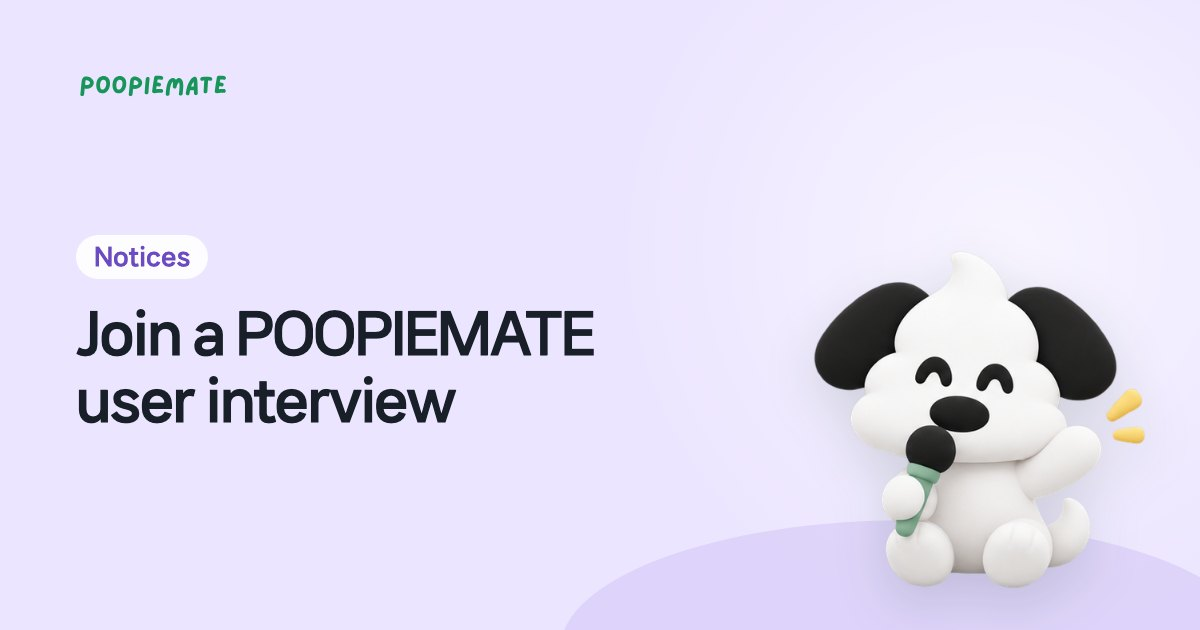
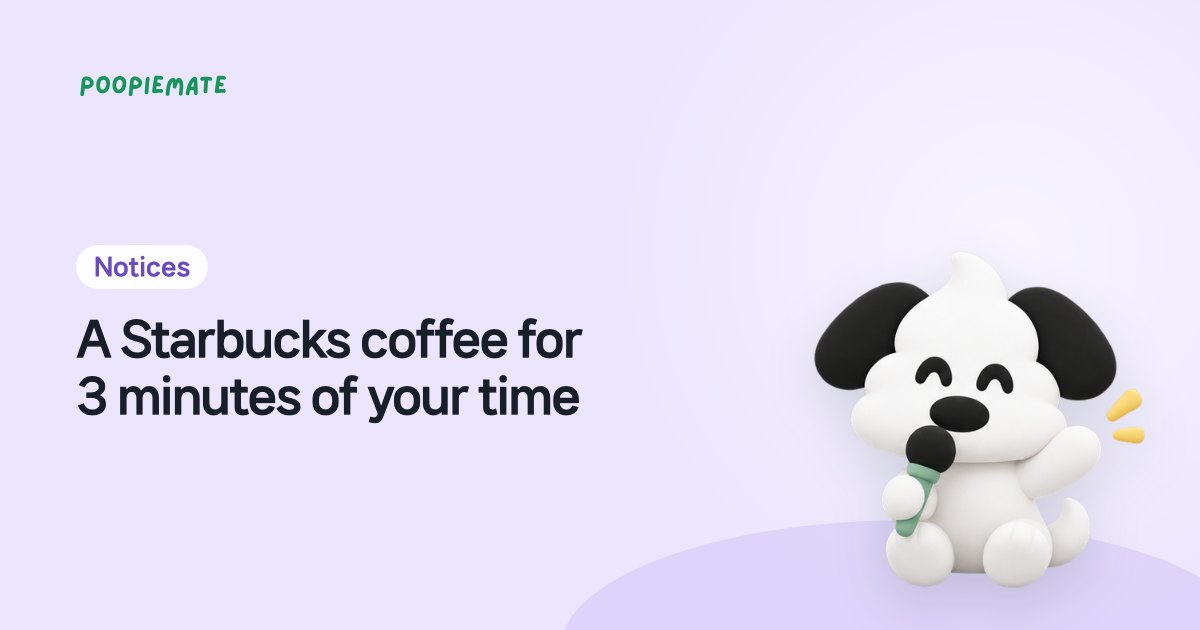
Survey gift: Starbucks e-gift card in English (Korean stays 투썸플레이스 아메리카노)

Changed region(s): [[0.0617, 0.4825, 0.4933, 0.6937], [0.0617, 0.3619, 0.1542, 0.4524]]

diff --git a/en/notice/interview/index.html b/en/notice/interview/index.html
@@ -4,8 +4,8 @@
 <meta charset="utf-8">
 <script>document.documentElement.classList.add('js')</script>
 <meta name="viewport" content="width=device-width, initial-scale=1, viewport-fit=cover">
-<title>A coffee for 3 minutes of your time | POOPIEMATE</title>
-<meta name="description" content="Tell us how you use POOPIEMATE in a 3-minute multiple-choice survey and the coffee is on us.">
+<title>A Starbucks coffee for 3 minutes of your time | POOPIEMATE</title>
+<meta name="description" content="Tell us how you use POOPIEMATE in a 3-minute multiple-choice survey and a Starbucks coffee is on us.">
 
 <meta name="robots" content="index, follow, max-image-preview:large">
 <link rel="canonical" href="https://poopiemate.com/en/notice/interview/">
@@ -16,16 +16,16 @@
 <meta name="theme-color" content="#18955A">
 <meta property="og:type" content="article">
 <meta property="og:site_name" content="POOPIEMATE">
-<meta property="og:title" content="A coffee for 3 minutes of your time | POOPIEMATE">
-<meta property="og:description" content="Tell us how you use POOPIEMATE in a 3-minute multiple-choice survey and the coffee is on us.">
+<meta property="og:title" content="A Starbucks coffee for 3 minutes of your time | POOPIEMATE">
+<meta property="og:description" content="Tell us how you use POOPIEMATE in a 3-minute multiple-choice survey and a Starbucks coffee is on us.">
 <meta property="og:url" content="https://poopiemate.com/en/notice/interview/">
 <meta property="og:image" content="https://poopiemate.com/assets/og/p/en-notice-interview.jpg">
 <meta property="og:image:width" content="1200">
 <meta property="og:image:height" content="630">
 <meta property="og:locale" content="en_US">
 <meta name="twitter:card" content="summary_large_image">
-<meta name="twitter:title" content="A coffee for 3 minutes of your time | POOPIEMATE">
-<meta name="twitter:description" content="Tell us how you use POOPIEMATE in a 3-minute multiple-choice survey and the coffee is on us.">
+<meta name="twitter:title" content="A Starbucks coffee for 3 minutes of your time | POOPIEMATE">
+<meta name="twitter:description" content="Tell us how you use POOPIEMATE in a 3-minute multiple-choice survey and a Starbucks coffee is on us.">
 <meta name="twitter:image" content="https://poopiemate.com/assets/og/p/en-notice-interview.jpg">
 <link rel="icon" href="/favicon.ico" sizes="48x48">
 <link rel="icon" type="image/png" sizes="32x32" href="/assets/icons/favicon-32.png">
@@ -47,8 +47,8 @@ posthog.init('phc_vCXzLCCFmhfLTks3Cn4ZNK99JiPnmcwByxnnhCApaVt7',{api_host:'https
 <main id="main">
 
 <article class="post"><div class="wrap-post">
-<p class="post-meta"><time datetime="2026-10-05">Oct 5, 2026</time> · POOPIEMATE team</p><h1 class="post-h1">A coffee for 3 minutes of your time</h1><img class="notice-hero" src="/assets/img/notice-hero.webp" alt="A coffee for 3 minutes of your time" width="1038" height="510">
-<div class="prose"><p>Hi from the POOPIEMATE team.<br>Thank you for logging your dog’s poops, pees and walks every day.</p><p>We want to make POOPIEMATE easier to use, so we’d love to know how you use it.</p><ul><li>Which features you use</li><li>Why you use it</li><li>What you’d like us to add</li></ul><p>It’s multiple choice and takes about 3 minutes.</p><p>Everyone who answers gets a coffee e-gift card within a day or two.</p></div>
+<p class="post-meta"><time datetime="2026-10-05">Oct 5, 2026</time> · POOPIEMATE team</p><h1 class="post-h1">A Starbucks coffee for 3 minutes of your time</h1><img class="notice-hero" src="/assets/img/notice-hero.webp" alt="A Starbucks coffee for 3 minutes of your time" width="1038" height="510">
+<div class="prose"><p>Hi from the POOPIEMATE team.<br>Thank you for logging your dog’s poops, pees and walks every day.</p><p>We want to make POOPIEMATE easier to use, so we’d love to know how you use it.</p><ul><li>Which features you use</li><li>Why you use it</li><li>What you’d like us to add</li></ul><p>It’s multiple choice and takes about 3 minutes.</p><p>Everyone who answers gets a Starbucks e-gift card within a day or two.</p></div>
 <div class="post-end two"><a class="btn-block btn-grey" href="/en/notice/">Back to list</a><a class="btn-block btn-dark" href="/en/interview/?src=notice">Take the 3-minute survey<svg viewBox="0 0 24 24" fill="none" stroke="currentColor" stroke-width="2.2" stroke-linecap="round" stroke-linejoin="round" aria-hidden="true"><path d="M15 3h6v6M10 14 21 3M18 13v6a2 2 0 0 1-2 2H5a2 2 0 0 1-2-2V8a2 2 0 0 1 2-2h6"/></svg></a></div>
 </div></article>
 

diff --git a/en/interview/index.html b/en/interview/index.html
@@ -278,7 +278,7 @@
 <meta property="og:type" content="website">
 <meta property="og:site_name" content="POOPIEMATE">
 <meta property="og:title" content="POOPIEMATE 3-minute survey">
-<meta property="og:description" content="Tell us how you use POOPIEMATE in a 3-minute multiple-choice survey and the coffee is on us.">
+<meta property="og:description" content="Tell us how you use POOPIEMATE in a 3-minute multiple-choice survey and a Starbucks coffee is on us.">
 <meta property="og:url" content="https://poopiemate.com/en/interview/">
 <meta property="og:image" content="https://poopiemate.com/assets/og/p/en-interview.jpg">
 <meta name="twitter:card" content="summary_large_image">
@@ -298,7 +298,7 @@ posthog.init('phc_vCXzLCCFmhfLTks3Cn4ZNK99JiPnmcwByxnnhCApaVt7',{api_host:'https
   <main class="iv" id="main">
     <h1>Hi, I’m Jin. I make POOPIEMATE</h1>
     <p class="lede">
-      I live with a white Jindo mix. My husband and I both work, and we could never keep track of who took her out, so I built this app as a hobby. Seeing you use it every day means a lot. Tell us how you use it in this <strong>3-minute survey</strong> and we’ll send you a <strong>coffee</strong> as a thank-you!
+      I live with a white Jindo mix. My husband and I both work, and we could never keep track of who took her out, so I built this app as a hobby. Seeing you use it every day means a lot. Tell us how you use it in this <strong>3-minute survey</strong> and we’ll send you a <strong>Starbucks coffee</strong> as a thank-you!
     </p>
 
     <form id="interview-form">
@@ -447,7 +447,7 @@ posthog.init('phc_vCXzLCCFmhfLTks3Cn4ZNK99JiPnmcwByxnnhCApaVt7',{api_host:'https
       </section>
 
       <section class="card">
-        <h2>Where to send the coffee</h2>
+        <h2>Where to send your Starbucks e-gift card</h2>
         <p class="section-sub">We need this to send your thank-you</p>
         <div class="field">
           <label class="field-label" for="name">Name <span class="optional-tag">Optional</span></label>
@@ -457,7 +457,7 @@ posthog.init('phc_vCXzLCCFmhfLTks3Cn4ZNK99JiPnmcwByxnnhCApaVt7',{api_host:'https
           <label class="field-label" for="phone">Email or phone <span class="required-tag">Required</span></label>
           <input type="text" id="phone" name="phone" placeholder="you@example.com" autocomplete="tel" pattern=".{3,}" title="Email or phone" required />
           <p class="hint" style="margin-top:6px;margin-bottom:0;color:var(--pink-dark);font-weight:700;">
-            We’ll send a coffee e-gift card (Starbucks or similar) to this email or number.
+            We’ll send a Starbucks e-gift card to this email or number.
           </p>
         </div>
       </section>
@@ -491,7 +491,7 @@ posthog.init('phc_vCXzLCCFmhfLTks3Cn4ZNK99JiPnmcwByxnnhCApaVt7',{api_host:'https
 
     <div class="thanks" id="thanks-view" style="display:none;">
       <h2>Thank you!</h2>
-      <p>Got it. Your coffee is on its way within a day or two.</p>
+      <p>Got it. Your Starbucks e-gift card is on its way within a day or two.</p>
     </div>
   </main>
 

diff --git a/src/legacy/interview-en.html b/src/legacy/interview-en.html
@@ -289,7 +289,7 @@
   <main>
     <h1>Hi, I’m Jin. I make POOPIEMATE</h1>
     <p class="lede">
-      I live with a white Jindo mix. My husband and I both work, and we could never keep track of who took her out, so I built this app as a hobby. Seeing you use it every day means a lot. Tell us how you use it in this <strong>3-minute survey</strong> and we’ll send you a <strong>coffee</strong> as a thank-you!
+      I live with a white Jindo mix. My husband and I both work, and we could never keep track of who took her out, so I built this app as a hobby. Seeing you use it every day means a lot. Tell us how you use it in this <strong>3-minute survey</strong> and we’ll send you a <strong>Starbucks coffee</strong> as a thank-you!
     </p>
 
     <form id="interview-form">
@@ -438,7 +438,7 @@
       </section>
 
       <section class="card">
-        <h2>Where to send the coffee</h2>
+        <h2>Where to send your Starbucks e-gift card</h2>
         <p class="section-sub">We need this to send your thank-you</p>
         <div class="field">
           <label class="field-label" for="name">Name <span class="optional-tag">Optional</span></label>
@@ -448,7 +448,7 @@
           <label class="field-label" for="phone">Email or phone <span class="required-tag">Required</span></label>
           <input type="text" id="phone" name="phone" placeholder="you@example.com" autocomplete="tel" pattern=".{3,}" title="Email or phone" required />
           <p class="hint" style="margin-top:6px;margin-bottom:0;color:var(--pink-dark);font-weight:700;">
-            We’ll send a coffee e-gift card (Starbucks or similar) to this email or number.
+            We’ll send a Starbucks e-gift card to this email or number.
           </p>
         </div>
       </section>
@@ -482,7 +482,7 @@
 
     <div class="thanks" id="thanks-view" style="display:none;">
       <h2>Thank you!</h2>
-      <p>Got it. Your coffee is on its way within a day or two.</p>
+      <p>Got it. Your Starbucks e-gift card is on its way within a day or two.</p>
     </div>
   </main>
 

diff --git a/en/notice/index.html b/en/notice/index.html
@@ -49,8 +49,8 @@ posthog.init('phc_vCXzLCCFmhfLTks3Cn4ZNK99JiPnmcwByxnnhCApaVt7',{api_host:'https
 <section class="list-page"><div class="wrap-list">
 <div class="list-head"><img src="/assets/img/emoji/megaphone.webp" alt="" width="56" height="56"><div><h1 class="list-h1">Notices</h1><p class="list-sub">Updates and events from POOPIEMATE</p></div></div>
 <div class="post-grid">
-<a class="post-card" href="/en/notice/interview/"><span class="thumb green"><img src="/assets/img/notice-hero.webp" alt="A coffee for 3 minutes of your time" loading="lazy" width="1038" height="510"><span class="new-badge" data-new="2026-10-05" hidden>NEW</span></span>
-<b>A coffee for 3 minutes of your time</b><span class="ex">Tell us how you use POOPIEMATE in a 3-minute multiple-choice survey and the coffee is on us.</span><time datetime="2026-10-05">Oct 5, 2026</time></a>
+<a class="post-card" href="/en/notice/interview/"><span class="thumb green"><img src="/assets/img/notice-hero.webp" alt="A Starbucks coffee for 3 minutes of your time" loading="lazy" width="1038" height="510"><span class="new-badge" data-new="2026-10-05" hidden>NEW</span></span>
+<b>A Starbucks coffee for 3 minutes of your time</b><span class="ex">Tell us how you use POOPIEMATE in a 3-minute multiple-choice survey and a Starbucks coffee is on us.</span><time datetime="2026-10-05">Oct 5, 2026</time></a>
 </div>
 <div class="empty" hidden><img src="/assets/img/mascot/scratch.webp" alt="" width="160" height="185" loading="lazy"><b>No news yet ^^;;</b><p>When something new happens, it lands here first.<br>Hang tight!</p></div>
 </div></section>

diff --git a/src/build.py b/src/build.py
@@ -1004,12 +1004,12 @@ NOTICE = {
                     '<ul><li>자주 쓰는 기능은 무엇인지</li><li>왜 쓰시는지</li><li>있으면 좋겠는 기능은 무엇인지</li></ul>',
                     '객관식이라 3분이면 끝나요.', '답해 주신 분께는 투썸플레이스 아메리카노 기프티콘을 1~2일 안에 보내드려요.'],
            'apply': '3분 설문 답하기'},
-    'en': {'title': 'A coffee for 3 minutes of your time', 'date': 'Oct 5, 2026', 'by': 'POOPIEMATE team', 'sub': 'Tell us how you use POOPIEMATE in a 3-minute multiple-choice survey and the coffee is on us.',
+    'en': {'title': 'A Starbucks coffee for 3 minutes of your time', 'date': 'Oct 5, 2026', 'by': 'POOPIEMATE team', 'sub': 'Tell us how you use POOPIEMATE in a 3-minute multiple-choice survey and a Starbucks coffee is on us.',
            'body': ['Hi from the POOPIEMATE team.<br>Thank you for logging your dog’s poops, pees and walks every day.',
                     'We want to make POOPIEMATE easier to use, so we’d love to know how you use it.',
                     '<ul><li>Which features you use</li><li>Why you use it</li><li>What you’d like us to add</li></ul>',
                     'It’s multiple choice and takes about 3 minutes.',
-                    'Everyone who answers gets a coffee e-gift card within a day or two.'],
+                    'Everyone who answers gets a Starbucks e-gift card within a day or two.'],
            'apply': 'Take the 3-minute survey'},
 }
 
@@ -1310,7 +1310,7 @@ def interview(lang):
     s = s.replace('  <link rel="apple-touch-icon" href="https://poopiemate.com/assets/favicon.png">\n', '')
     path = '/interview/' if ko else '/en/interview/'
     og = ('응가메이트', '응가메이트 3분 설문', '어떻게 쓰고 계신지 객관식 3분이면 돼요. 답하면 투썸플레이스 아메리카노를 드려요.') if ko else \
-         ('POOPIEMATE', 'POOPIEMATE 3-minute survey', 'Tell us how you use POOPIEMATE in a 3-minute multiple-choice survey and the coffee is on us.')
+         ('POOPIEMATE', 'POOPIEMATE 3-minute survey', 'Tell us how you use POOPIEMATE in a 3-minute multiple-choice survey and a Starbucks coffee is on us.')
     head_add = (PRETENDARD + '\n<link rel="stylesheet" href="/assets/css/site.css?v=' + ASSET_V + '">\n'
                 '<link rel="icon" href="/favicon.ico" sizes="48x48"><link rel="apple-touch-icon" href="/assets/icons/apple-touch-icon.png">\n'
                 f'<meta property="og:type" content="website">\n<meta property="og:site_name" content="{og[0]}">\n<meta property="og:title" content="{og[1]}">\n'
